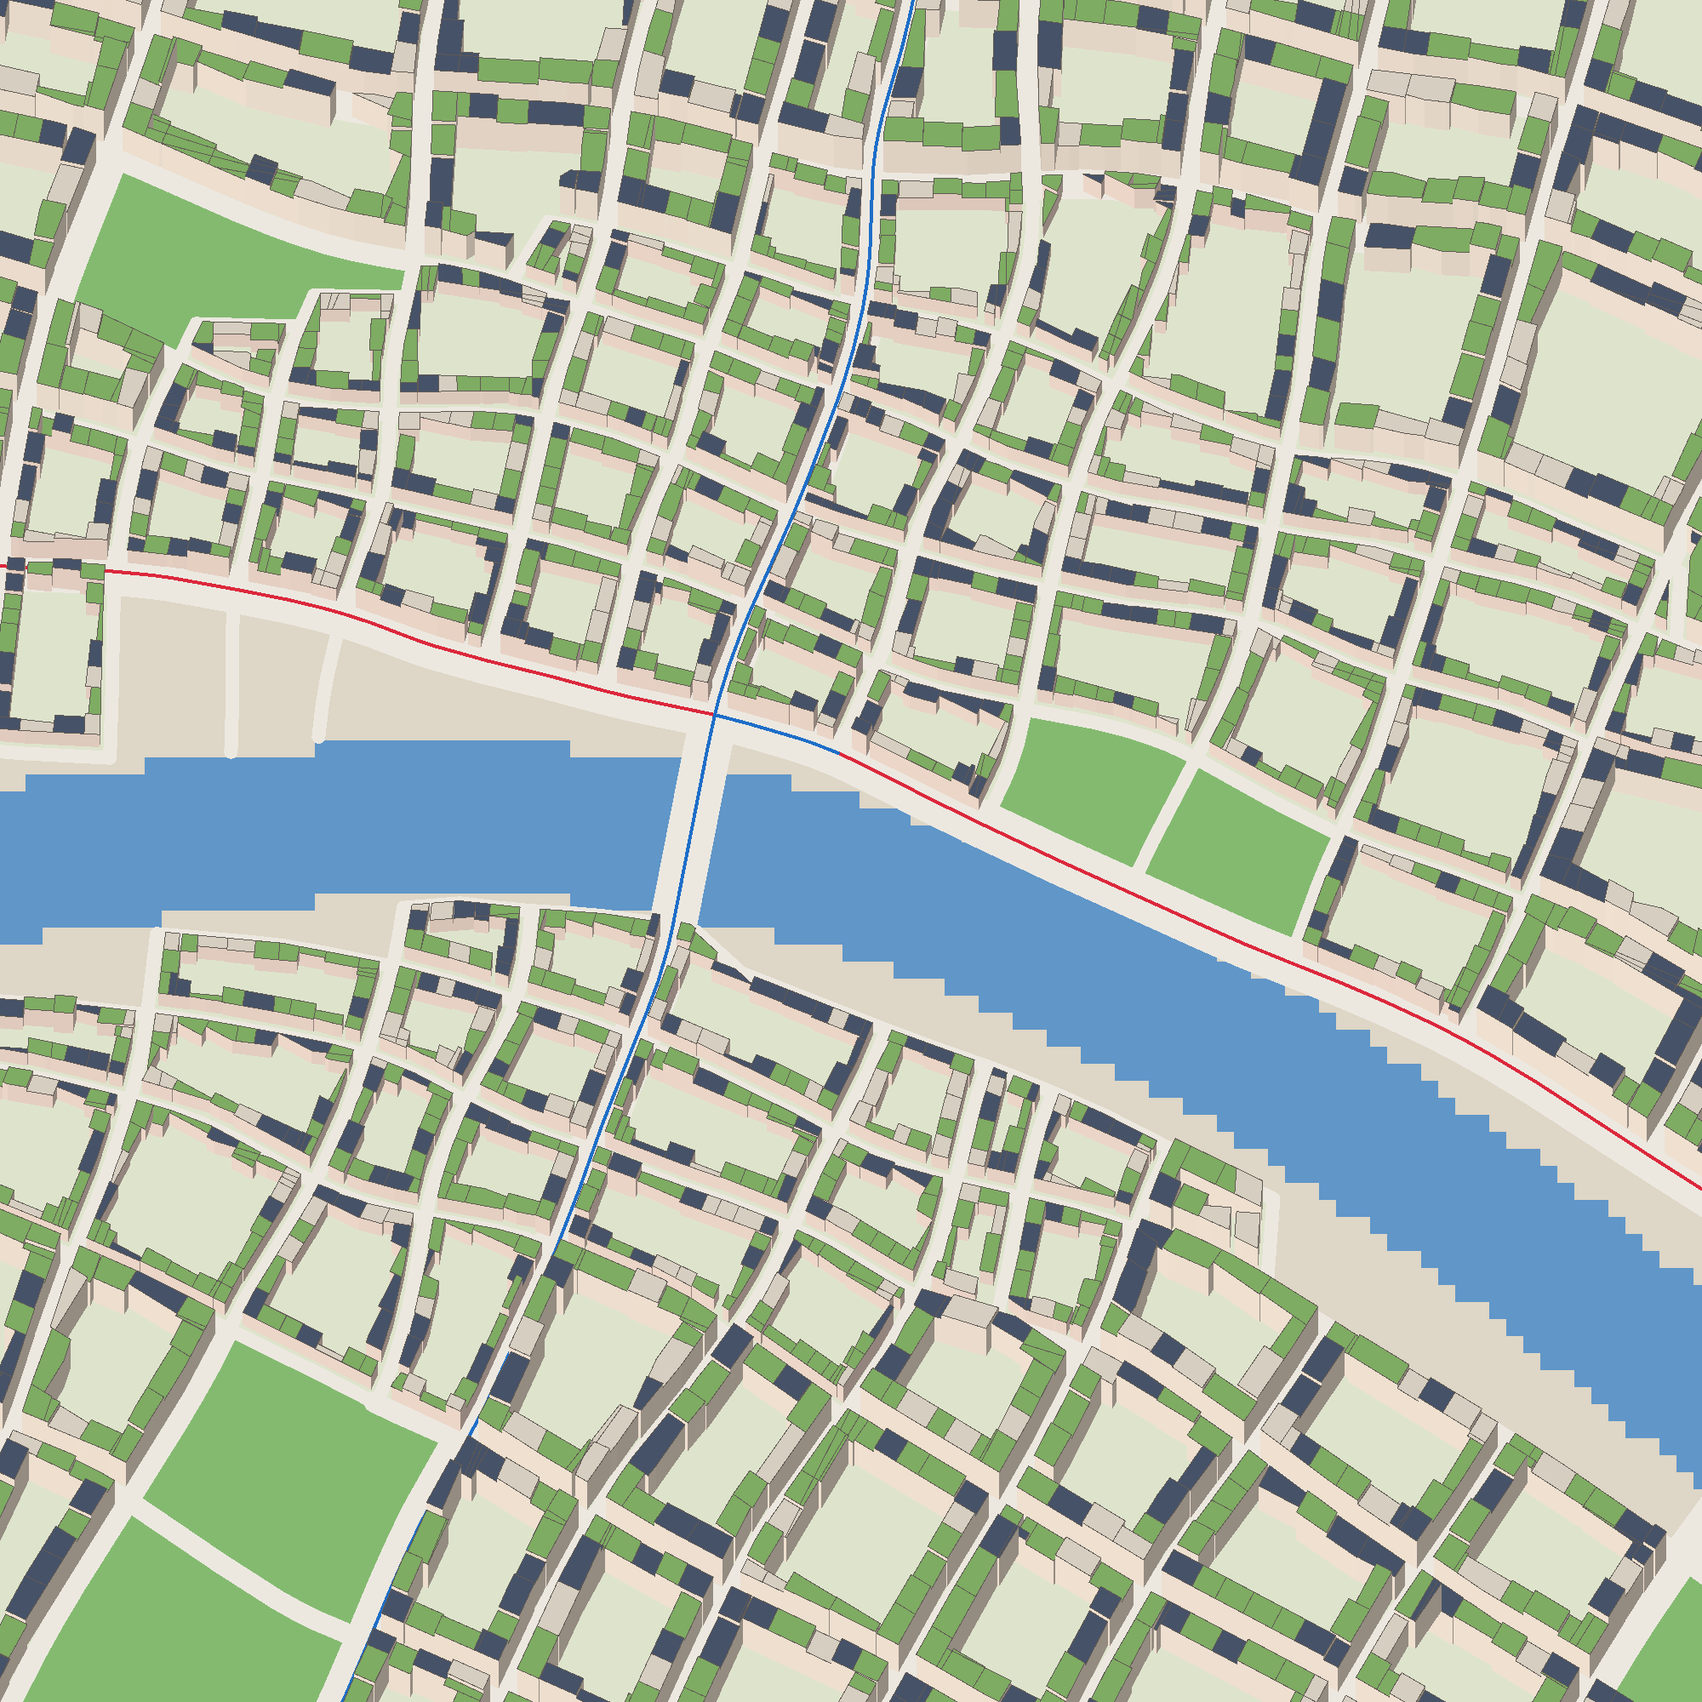
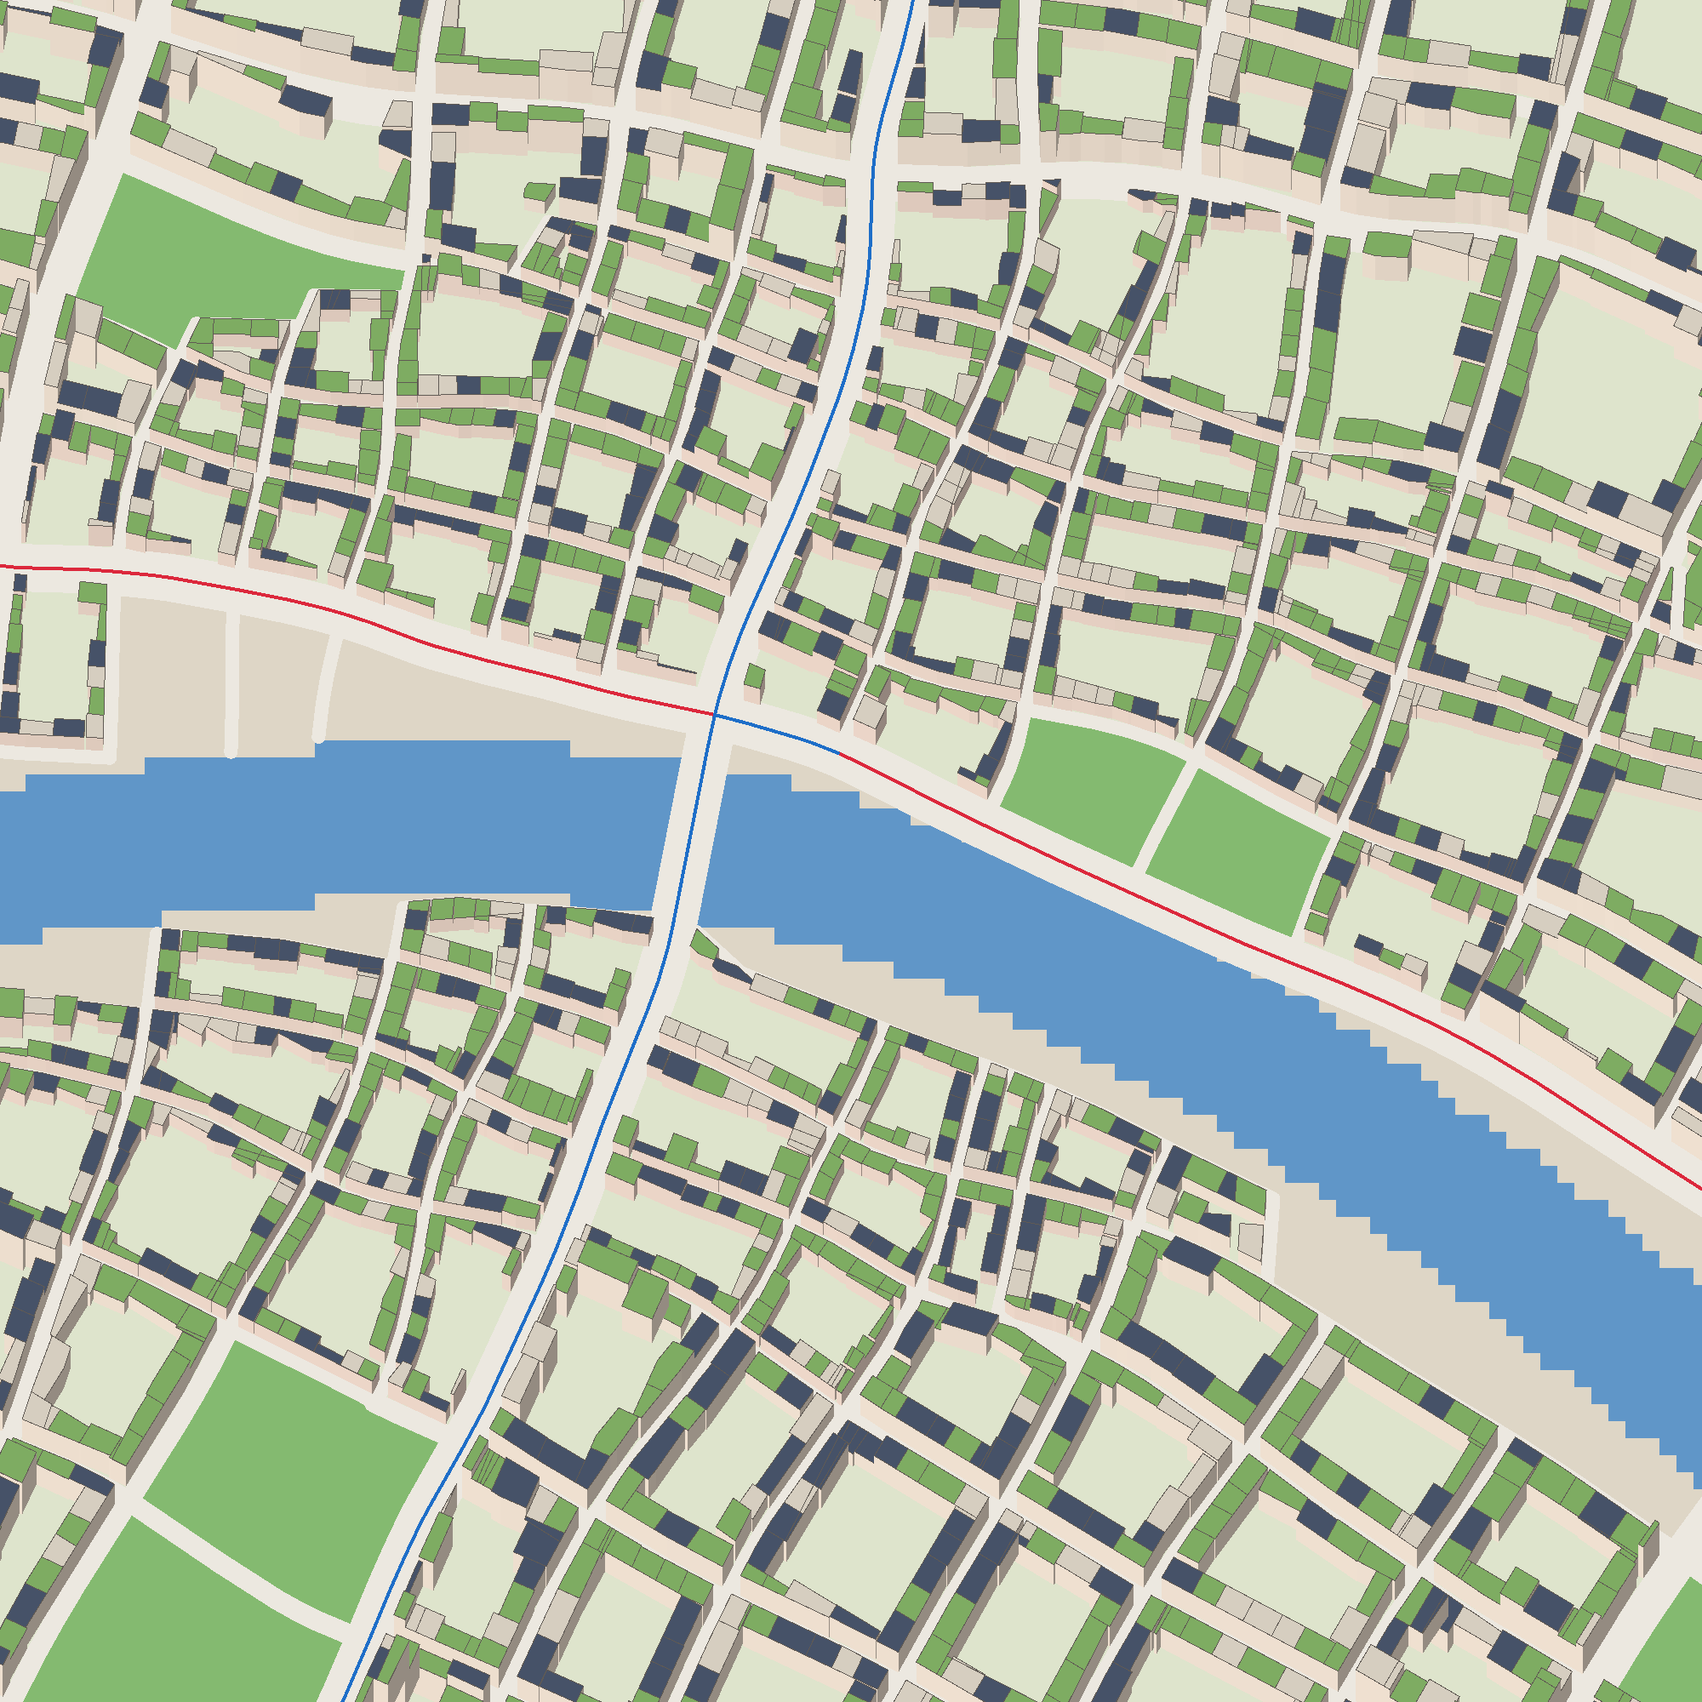
City plans: building lines at each street's real width; raised pavements and kerbs
Buildings stood in the avenues' carriageways: every building line was 6 m from
the centreline whatever the street. Each lot is now cut by half the width of
the street it touches (its profile), courtyards are inset by half the widest
street round the block and a building's depth, and the plan computes them once
the streets' profiles are known (transit before courtyards and lots). #245's
first item. The city-plan scenario gives the avenues raised pavements with
kerbs, cut back at junctions. The example: 14 700 masses, 20.5 km² of floors.

Changed region(s): [[0.0, 0.0, 1.0, 0.682], [0.0, 0.527, 0.992, 1.0]]

diff --git a/demos/city-plan/src/lib.rs b/demos/city-plan/src/lib.rs
@@ -198,6 +198,7 @@ impl PlanScenario {
         for e in &plan.roads.edges {
             ribbon(&mut tiles, &e.points, e.profile.width(), 0.16, STREET);
         }
+        pavements(&mut tiles, plan);
         for line in &plan.tram_lines {
             for offset in [-0.7, 0.7] {
                 let rail = offset_line(&line.points, offset);
@@ -765,4 +766,70 @@ pub fn street_camera(plan: &CityPlan, near: DVec2) -> Option<FlyCamera> {
         speed: 3.0,
         ..FlyCamera::default()
     })
+}
+
+/// Raised pavements with kerbs along the avenues (shared streets, lanes and paths are level
+/// surfaces): each side a strip of the profile's pavement 14 cm over the carriageway and a kerb
+/// face towards it, cut back at each end by the widest street meeting there.
+fn pavements(tiles: &mut Tiles, plan: &CityPlan) {
+    use forge_procgen::city::Profile;
+    let size = tiles.size;
+    let mut widest = vec![0.0_f64; plan.roads.nodes.len()];
+    for e in &plan.roads.edges {
+        let half = e.profile.width() * 0.5;
+        widest[e.a as usize] = widest[e.a as usize].max(half);
+        widest[e.b as usize] = widest[e.b as usize].max(half);
+    }
+    for e in &plan.roads.edges {
+        let pavement = match e.profile {
+            Profile::TramAvenue => 5.0,
+            Profile::Avenue => 4.5,
+            _ => continue,
+        };
+        let length = e.length();
+        let (start, end) = (
+            widest[e.a as usize] + 1.0,
+            length - widest[e.b as usize] - 1.0,
+        );
+        if end - start < 4.0 {
+            continue;
+        }
+        let steps = ((end - start) / 4.0).ceil() as usize;
+        let line: Vec<DVec2> = (0..=steps)
+            .map(|i| geom::point_at(&e.points, start + (end - start) * i as f64 / steps as f64))
+            .collect();
+        let half = e.profile.width() * 0.5;
+        for side in [1.0, -1.0] {
+            let outer = offset_line(&line, side * half);
+            let inner = offset_line(&line, side * (half - pavement));
+            let (left, right) = if side > 0.0 {
+                (&outer, &inner)
+            } else {
+                (&inner, &outer)
+            };
+            strip(tiles, left, right, 0.30, PAVING);
+            // The kerb: from the carriageway's top up to the pavement's, facing the road.
+            for w in inner.windows(2) {
+                let tile = tiles.at(w[0]);
+                let centre = tile.centre;
+                let (a, b) = (w[0], w[1]);
+                let t = (b - a).normalize_or_zero();
+                let towards = DVec2::new(-t.y, t.x) * -side;
+                let normal = Vec3::new(towards.x as f32, 0.0, towards.y as f32);
+                let p = |q: DVec2, h: f64| world(size, q, h) - centre;
+                triangle(
+                    &mut tile.ground,
+                    [p(a, 0.16), p(b, 0.16), p(b, 0.30)],
+                    normal,
+                    PAVING,
+                );
+                triangle(
+                    &mut tile.ground,
+                    [p(a, 0.16), p(b, 0.30), p(a, 0.30)],
+                    normal,
+                    PAVING,
+                );
+            }
+        }
+    }
 }

diff --git a/crates/forge-procgen/src/city/blocks.rs b/crates/forge-procgen/src/city/blocks.rs
@@ -10,6 +10,7 @@ use forge_core::SplitMix64;
 use glam::DVec2;
 
 use super::geom::{self, PointGrid};
+use super::graph::RoadGraph;
 use super::{DistrictSpec, LAND, Site, district_index};
 use crate::field::Field2;
 
@@ -95,10 +96,9 @@ pub fn from_faces(
         } else {
             BlockUse::Built
         };
-        let courtyard = match (use_, kind.building_depth()) {
-            (BlockUse::Built, Some(depth)) => geom::inset(&polygon, STREET_HALF + depth),
-            _ => None,
-        };
+        // Courtyards come once the streets' profiles are known ([`courtyards`]).
+        let courtyard = None;
+        let _ = kind;
         blocks.push(Block {
             polygon,
             area,
@@ -112,8 +112,47 @@ pub fn from_faces(
 }
 
 /// Half a street's width plus its pavement, from a block's outline on the streets'
-/// centrelines to its building line, metres.
+/// centrelines to its building line, metres, where the street's own profile is not known.
 pub const STREET_HALF: f64 = 6.0;
+
+/// The streets' centrelines sampled every 10 m, each sample tagged with its edge.
+pub fn street_grid(roads: &RoadGraph, size: f64) -> PointGrid {
+    let mut grid = PointGrid::new(size, 50.0);
+    for (i, e) in roads.edges.iter().enumerate() {
+        for p in geom::resample(&e.points, 10.0) {
+            grid.insert(p, i as u32);
+        }
+    }
+    grid
+}
+
+/// Half the width of the street along a block's edge from `a` to `b` (its building line's
+/// distance from the centreline), [`STREET_HALF`] when no street is found.
+pub fn edge_half_width(grid: &PointGrid, roads: &RoadGraph, a: DVec2, b: DVec2) -> f64 {
+    grid.nearest((a + b) * 0.5, 30.0)
+        .map_or(STREET_HALF, |(_, e)| {
+            roads.edges[e as usize].profile.width() * 0.5
+        })
+}
+
+/// Each built block's courtyard: its outline moved in by half the widest street round it and its
+/// district's building depth, when the block is deep enough for one.
+pub fn courtyards(blocks: &mut [Block], roads: &RoadGraph, districts: &[DistrictSpec], size: f64) {
+    let grid = street_grid(roads, size);
+    for b in blocks.iter_mut() {
+        if b.use_ != BlockUse::Built {
+            continue;
+        }
+        let Some(depth) = districts[b.district].kind.building_depth() else {
+            continue;
+        };
+        let n = b.polygon.len();
+        let half = (0..n)
+            .map(|i| edge_half_width(&grid, roads, b.polygon[i], b.polygon[(i + 1) % n]))
+            .fold(STREET_HALF, f64::max);
+        b.courtyard = geom::inset(&b.polygon, half + depth);
+    }
+}
 
 /// The share of a polygon's area over water, sampled every 10 m, and a land point of it.
 fn water_share(site: &Site, polygon: &[DVec2]) -> (f64, Option<DVec2>) {

diff --git a/crates/forge-procgen/src/city/mass.rs b/crates/forge-procgen/src/city/mass.rs
@@ -1,6 +1,6 @@
 //! Mass models: each lot's building as a footprint and a height, the first stage of D-039's
 //! grammar ("a mass model fitted to its lot"). A lot's building fills the strip between the
-//! building line (the block's outline moved in by [`STREET_HALF`]) and the courtyard (a
+//! building line (the block's outline moved in by half the width of each street it fronts) and the courtyard (a
 //! building's depth further in), measured from the street it faces. Its floors come from its
 //! district's range, capped by its street's profile: the tallest on avenues, lower on shared
 //! streets, the lowest on pedestrian lanes (heights that follow street widths,
@@ -10,7 +10,7 @@ use forge_core::SplitMix64;
 use glam::DVec2;
 
 use super::bible::StyleBible;
-use super::blocks::{BlockUse, STREET_HALF};
+use super::blocks::{BlockUse, edge_half_width};
 use super::geom::{self, PointGrid};
 use super::{CityPlan, Profile};
 
@@ -93,7 +93,8 @@ pub fn masses(plan: &CityPlan, bible: &StyleBible, seed: u64) -> Vec<Mass> {
                 continue;
             }
             let inward = DVec2::new(-edge.y, edge.x);
-            inside = geom::clip_half_plane(&inside, p + inward * STREET_HALF, edge);
+            let half = edge_half_width(&streets, &plan.roads, p, q);
+            inside = geom::clip_half_plane(&inside, p + inward * half, edge);
         }
         let pieces = match (&block.courtyard, district.kind.building_depth()) {
             (Some(courtyard), _) => outside_of(&inside, &geom::convex_hull(courtyard)),
@@ -102,7 +103,7 @@ pub fn masses(plan: &CityPlan, bible: &StyleBible, seed: u64) -> Vec<Mass> {
                 let inward = DVec2::new(-t.y, t.x);
                 vec![geom::clip_half_plane(
                     &inside,
-                    a + inward * (STREET_HALF + depth),
+                    a + inward * (edge_half_width(&streets, &plan.roads, a, a + t) + depth),
                     -t,
                 )]
             }

diff --git a/crates/forge-procgen/src/city/mod.rs b/crates/forge-procgen/src/city/mod.rs
@@ -581,8 +581,7 @@ pub fn plan(site: &Site, params: &CityParams) -> CityPlan {
         params.park_min_area,
         params.park_share_cap,
     );
-    let lots = blocks::subdivide(&blocks, &params.districts, seed.derive_str("lots").value());
-    lap("blocks, parks and lots", &mut timings);
+    lap("blocks and parks", &mut timings);
 
     let mut tram_lines = transit::route_trams(&roads, &params.tram_lines, params.stop_spacing);
     if params.max_extra_lines > 0 {
@@ -604,6 +603,13 @@ pub fn plan(site: &Site, params: &CityParams) -> CityPlan {
     }
     let crossings = transit::boat_crossings(site, &roads, params.boat_gap);
     transit::assign_profiles(&mut roads, &tram_lines, &districts_field, &params.districts);
+    lap("transit", &mut timings);
+
+    // Courtyards and lots once the streets' widths are known.
+    blocks::courtyards(&mut blocks, &roads, &params.districts, site.size);
+    let lots = blocks::subdivide(&blocks, &params.districts, seed.derive_str("lots").value());
+    lap("courtyards and lots", &mut timings);
+
     let landmarks = params
         .landmarks
         .iter()
@@ -612,7 +618,7 @@ pub fn plan(site: &Site, params: &CityParams) -> CityPlan {
             pos: transit::nearest_main_node(&roads, l.anchor).unwrap_or(l.anchor),
         })
         .collect();
-    lap("transit and landmarks", &mut timings);
+    lap("landmarks", &mut timings);
 
     let mut plan = CityPlan {
         size: site.size,

diff --git a/docs/demos/city-plan.md b/docs/demos/city-plan.md
@@ -28,11 +28,11 @@ cargo run --release -p city-map -- --size 4000 --scale 2 --out captures/city
 | Street pattern | a tensor field: a grid per district at its angle, rings at radial squares, the water's tangents near the coast and rivers (Chen et al. 2008) | `city::tensor` |
 | Streets | main roads traced first (bridging rivers up to 260 m), then streets at each district's spacing; each stops half a block short of a parallel street, and its end joins the nearest street ahead | `city::streets` |
 | Road graph | streets cut where they cross or meet, ends snapped, dead ends under 60 m pruned; blocks as the graph's bounded faces | `city::graph` |
-| Blocks | quays where a face holds water; parks from park districts, then from the 3-30-300 rule (a park of 1 ha within 300 m of every built block); a courtyard per block, inset by the street and a building's depth | `city::blocks` |
+| Blocks | quays where a face holds water; parks from park districts, then from the 3-30-300 rule (a park of 1 ha within 300 m of every built block); a courtyard per block, inset by half the widest street round it and a building's depth, once the streets' profiles are known | `city::blocks` |
 | Lots | recursive splits across each piece's long axis (Vanegas et al. 2012); only the pieces on a street are kept where a block has a courtyard | `city::blocks` |
 | Forest | ground above a height or steeper than a slope goes to the first reserve district (a real site's hills) | `city::district_field` |
 | Transit | tram lines by the shortest path through their waypoints, main roads preferred (a waypoint far from any main road snaps to the nearest street); stops every 450 m moved to nearby junctions; lines added until a target share of blocks has a stop within 400 m (`transit::cover`); boat crossings where a river runs long without a bridge; street profiles (tram avenue, avenue, shared, pedestrian, path) | `city::transit` |
-| Masses | each lot's building: the lot cut by the building line of each street it touches, less the courtyard's hull (or a building's depth along its street where no courtyard fits); floors from the district's range, capped by the style bible's height-to-width ratio on the street it fronts; green, solar or terrace roofs | `city::mass` |
+| Masses | each lot's building: the lot cut by the building line of each street it touches (half that street's profile width from its centreline), less the courtyard's hull (or a building's depth along its street where no courtyard fits); floors from the district's range, capped by the style bible's height-to-width ratio on the street it fronts; green, solar or terrace roofs | `city::mass` |
 | Style bible | one TOML record of the city's rules (height to street width, green roofs, green area per block, park and stop reach, the streets' share, per-district floors, lots, spacing and walls), put into the plan's parameters and measured by a checker that names what fails | `city::bible` |
 | Trees | rows along the streets by profile (two on avenues every 9 m, one on shared streets every 11 m, every 18 m in lanes), none within 10 m of a junction; a jittered grid in parks (13 m, two thirds filled), on the quays (14 m, under half) and in courtyards (16 m, half) | `city::trees` |
 | Maps and numbers | a small rasteriser: the plan (with the districts', landmarks' and lines' names in the engine's font, kept from overlapping), a checks map (blocks by what they lack), an oblique massing view of any window; the plan's numbers and its digest | `city::map` |
@@ -47,13 +47,13 @@ router, and `forge_core::dmath` does the trigonometry. Two runs give the same di
 | Land | 14.3 km² |
 | Main roads / streets | 59 km / 149 km, 8 bridges |
 | Built blocks / parks | 674 (mean 1.66 ha) / 48 |
-| Lots / blocks with a courtyard | 12 930 / 608 |
+| Lots / blocks with a courtyard | 13 323 / 563 |
 | Parks' share of the land | 10.5 % |
 | Built blocks with a 1 ha park within 300 m | 100 % |
 | Built blocks within 400 m of a tram stop | 45 % (two lines, no line added) |
 | Streets' share of the land | 21.5 % |
 | Tram lines | 7.8 km, 19 stops |
-| Masses / floor area | 15 155 / 19.7 km² (13 ms; floors capped by street width) |
+| Masses / floor area | 14 700 / 20.5 km² (14 ms; floors capped by street width) |
 
 | Stage | Time |
 |---|---|
@@ -62,8 +62,9 @@ router, and `forge_core::dmath` does the trigonometry. Two runs give the same di
 | main roads | 2.3 ms |
 | streets | 8.6 ms |
 | road graph and faces | 10.3 ms |
-| blocks, parks and lots | 10.2 ms |
-| transit and landmarks | 0.3 ms |
+| blocks and parks | 5.5 ms |
+| transit | 0.2 ms |
+| courtyards and lots | 5.8 ms |
 | **the whole plan** | **≈ 42 ms** |
 
 ## Tests
@@ -83,7 +84,7 @@ router, and `forge_core::dmath` does the trigonometry. Two runs give the same di
 ```
 ok   height at most the street's width times the ratio: 1.000
 ok   green roofs' share: 0.507 (limit 0.500)
-FAIL built blocks at their green area: 0.889 (limit 1.000); 75 failing, e.g. block 10: 0.08, …
+FAIL built blocks at their green area: 0.788 (limit 1.000); 143 failing, e.g. block 10: 0.06, …
 ok   built blocks with a park within reach: 1.000
 FAIL built blocks within 400 m of a tram stop: 0.454 (limit 0.900)
 ok   streets' share of the land at most: 0.215 (limit 0.250)
@@ -131,9 +132,10 @@ palette chosen by lot. Variety in the facades themselves comes with D-039's modu
 
 ![At eye height](images/city-plan-street.png)
 
-*At eye height on the river avenue (`--street`): shopfronts, shuttered window bays, the
-tree-lined quay and the river. Street level shows what comes next: pavements and kerbs, street
-furniture, finer trees, the modules (#247).*
+*At eye height on the river avenue (`--street`): buildings behind raised pavements with kerbs,
+shopfronts and shuttered window bays, a row of plane-like trees each side, tram tracks, the
+tree-lined quay and the river. Next at this height: street furniture, finer trees, the modules
+(#247).*
 
 ![Night, three ways](images/city-plan-night.png)
 
@@ -147,7 +149,6 @@ stopgap.*
 
 ## Next (#245–#247)
 
-- Building lines per street profile.
 - Squares at the radial districts' centres; the landmarks' sightlines.
 - More checks on the checks map; a legend.
 - The style bible's palette into the materials; more rules (cornice lines, opening rhythm) once facades exist (#246).
